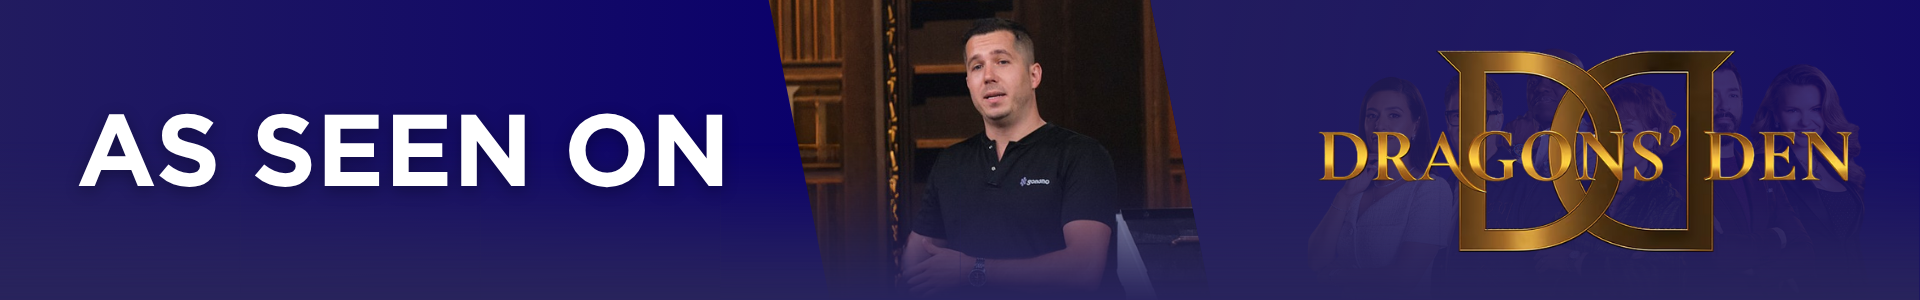
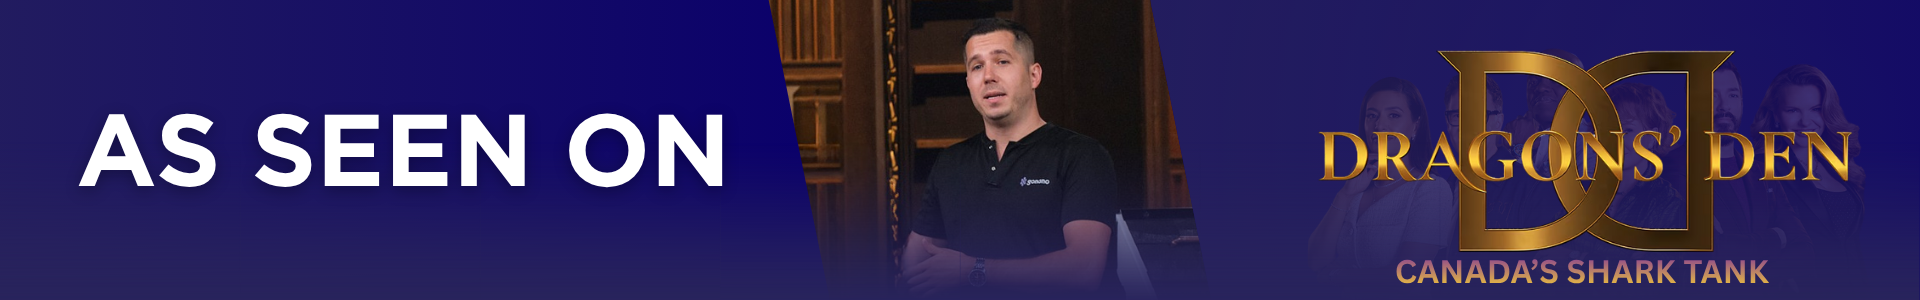
chore: kept cadana shark tank in bracket

Changed region(s): [[0.7188, 0.87, 0.9375, 0.96]]

diff --git a/app/components/QuoteRequestOverlay.tsx b/app/components/QuoteRequestOverlay.tsx
@@ -1,7 +1,9 @@
 'use client';
 
+import emailjs from 'emailjs-com';
 import React, { useState } from 'react';
 import { useEstimate } from '../contexts/EstimateContext';
+
 
 export function QuoteRequestOverlay() {
   const { openEstimate, setOpenEstimate } = useEstimate();
@@ -33,11 +35,41 @@ export function QuoteRequestOverlay() {
     }));
   };
 
-  const handleSubmit = () => {
-    console.log('Form submitted:', formData);
-    // Add your form submission logic here
-    // e.g., send to API endpoint
+  const handleSubmit = async () => {
+  const templateParams = {
+    firstName: formData.firstName,
+    lastName: formData.lastName,
+    phone: formData.phone,
+    email: formData.email,
+    propertyType: formData.propertyType,
+    surface: formData.surface,
+    roofAge: formData.roofAge,
+    financing: formData.financing,
+    referralSource: formData.referralSource,
+    address: formData.address,
+    message: formData.message,
+    transactionalConsent: formData.transactionalConsent ? "Yes" : "No",
+    marketingConsent: formData.marketingConsent ? "Yes" : "No",
   };
+
+  try {
+    const response = await emailjs.send(
+      "service_pxhqcbr",// service_id
+      "template_1es6yij",//template_id
+      templateParams,
+      "lS3yLvZmuOSszc2kt"//public_key
+    );
+
+    console.log("Email successfully sent!", response.status, response.text);
+    alert("Your request has been submitted successfully!");
+
+    setOpenEstimate(false);
+  } catch (error) {
+    console.error("Email sending failed:", error);
+    alert("There was an error submitting your request. Please try again.");
+  }
+};
+
 
   return (
     <div onClick={() => setOpenEstimate(false)} className="fixed inset-0 z-50 top-0 flex items-center justify-center bg-black/60 backdrop-blur-sm p-4 overflow-y-scroll h-full">
